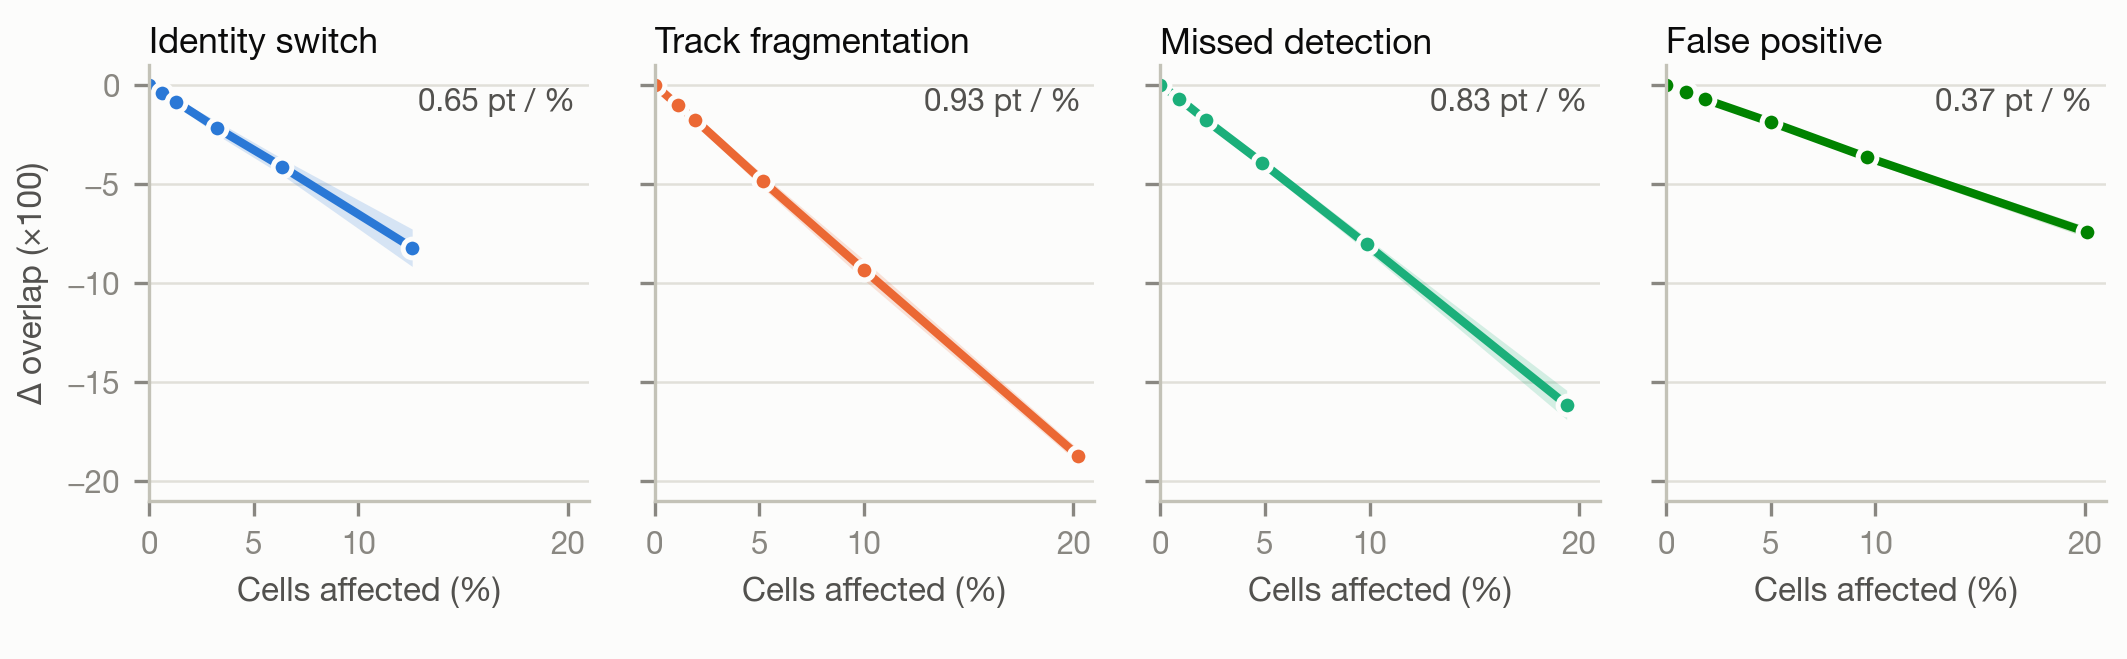
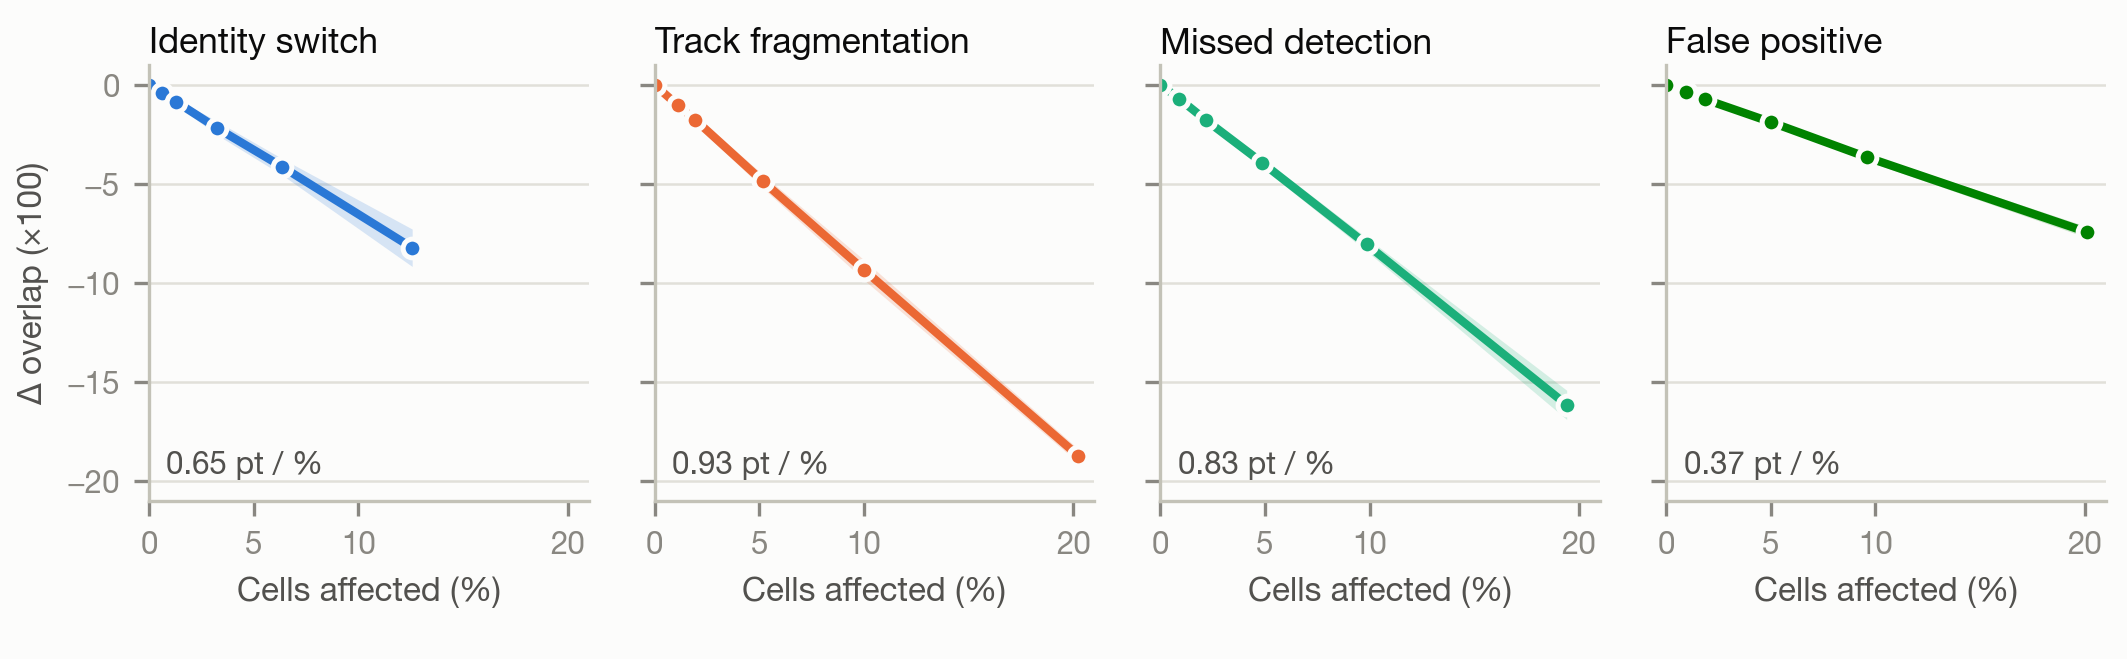
Figure 1: rank-correlation calibration panel alongside overlap, shared y range, slope labels clear of lines

diff --git a/scripts/make_panels.py b/scripts/make_panels.py
@@ -46,12 +46,12 @@ def _load_sweep(shape="slab"):
     return df
 
 
-def _curve(df, kind, src):
+def _curve(df, kind, src, metric="d_wio"):
     g = df[(df.error == kind) & (df.src == src)]
     if src == "sim_only":
         # simulation treated as the primary data: mean over seeds with 95% CI over simulated pairs
         g = df[(df.error == kind) & (df.src == "sim")]
-        pp = g.groupby(["source", "pair", "rate"]).agg(x=("rate_realised", "mean"), y=("d_wio", "mean")).reset_index()
+        pp = g.groupby(["source", "pair", "rate"]).agg(x=("rate_realised", "mean"), y=(metric, "mean")).reset_index()
         a = pp.groupby("rate").agg(x=("x", "mean"), y=("y", "mean"), sd=("y", "std"), n=("y", "size"))
         a["lo"] = a.y - 1.96 * a.sd / np.sqrt(a.n); a["hi"] = a.y + 1.96 * a.sd / np.sqrt(a.n)
         return a
@@ -101,8 +101,9 @@ def response_curves(order, stem):
     fs.save(fig, OUT / stem)
 
 
-def response_curves_sim(order, stem):
-    """Simulation-only response curves: one line per type, CI over simulated pairs."""
+def response_curves_sim(order, stem, metric="d_wio", ylabel="Δ overlap (×100)", ylim=None):
+    """Simulation-only response curves: one line per type, CI over simulated pairs.
+    ``metric`` is the sweep column (d_wio, d_rc, ...); ``ylim`` fixes a shared y range."""
     df = _load_sweep("slab")
     if df is None:
         return
@@ -112,22 +113,23 @@ def response_curves_sim(order, stem):
                                               bottom=0.24 if nrow == 1 else 0.14, wspace=0.15, hspace=0.55))
     axes = np.atleast_1d(axes).ravel(); ymin = 0
     for ax, kind in zip(axes, order):
-        col = fs.SERIES[kind]; c = _curve(df, kind, "sim_only")
+        col = fs.SERIES[kind]; c = _curve(df, kind, "sim_only", metric)
         x, y = np.r_[0, c.x * 100], np.r_[0, c.y * 100]
         ax.fill_between(x, np.r_[0, c.lo * 100], np.r_[0, c.hi * 100], color=col, alpha=0.18, lw=0)
         ax.plot(x, y, color=col, **fs.LINE, **fs.MARK)
         slope = -np.sum(c.x * c.y) / np.sum(c.x ** 2)
         ax.set_title(fs.LABELS[kind], loc="left", pad=3)
-        ax.text(0.97, 0.95, f"{slope:.2f} pt / %", transform=ax.transAxes, ha="right", va="top", fontsize=7.5, color=fs.INK2)
+        # bottom-left: lines start at the origin (top-left) and fall to the right, so this corner is always free
+        ax.text(0.04, 0.05, f"{slope:.2f} pt / %", transform=ax.transAxes, ha="left", va="bottom", fontsize=7.5, color=fs.INK2)
         fs.grid(ax); ax.set_xlim(0, 21); ax.set_xticks([0, 5, 10, 20]); ax.set_xlabel("Cells affected (%)")
-        ymin = min(ymin, float(y.min()))
+        ymin = min(ymin, float(np.min(np.r_[y, np.r_[0, c.lo * 100]])))
     for ax in axes[n:]:
         ax.axis("off")
-    lo = np.floor(ymin / 5) * 5 - 1
+    lo = ylim[0] if ylim else np.floor(ymin / 5) * 5 - 1
     for ax in axes[:n]:
         ax.set_ylim(lo, 1); ax.set_yticks(np.arange(0, lo, -5))
     for i in range(0, n, ncol):
-        axes[i].set_ylabel("Δ overlap (×100)")
+        axes[i].set_ylabel(ylabel)
     fs.save(fig, OUT / stem)
 
 

diff --git a/scripts/make_fig1.py b/scripts/make_fig1.py
@@ -238,7 +238,9 @@ def c_calibration_wio():
     """Simulation calibration in the style of the earlier response figure: change in
     weighted identity overlap vs realised rate, one panel per error type, slope shown."""
     mp.OUT = OUT
-    mp.response_curves_sim(fs.ORDER4, "c_calibration")
+    # same y range for both so the two metrics compare directly
+    mp.response_curves_sim(fs.ORDER4, "c_calibration", "d_wio", "Δ overlap (×100)", ylim=(-21, 1))
+    mp.response_curves_sim(fs.ORDER4, "c_calibration_rc", "d_rc", "Δ rank correlation (×100)", ylim=(-21, 1))
 
 
 # --------------------------------------------------------------------------- d: inversion
